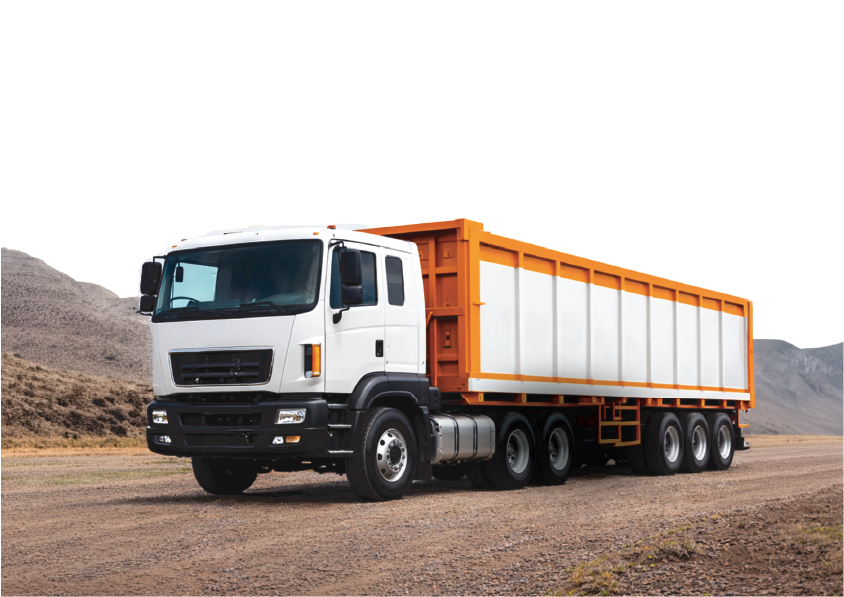
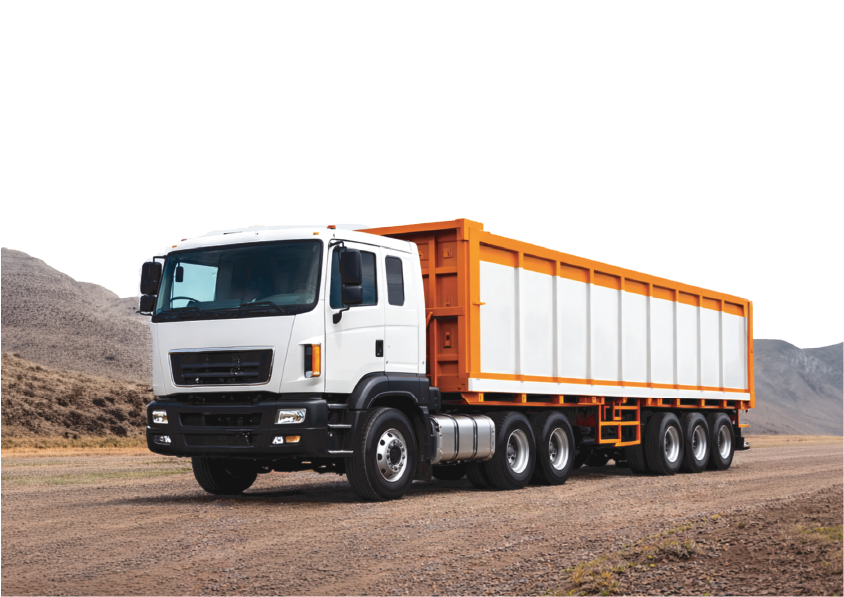
feat: re-import updated Asset 21 and restore card border frame

Changed region(s): [[0.5237, 0.603, 0.8009, 0.8442], [0.7701, 0.7538, 0.8009, 0.7839]]

diff --git a/src/pages/HomePage.tsx b/src/pages/HomePage.tsx
@@ -145,12 +145,14 @@ export const HomePage: React.FC = () => {
               transition={{ duration: 0.8, ease: [0.16, 1, 0.3, 1], delay: 0.15 }}
               className="lg:col-span-5 flex items-center justify-center"
             >
-              <div className="relative w-full flex items-center justify-center">
-                <img
-                  src={COMPANY_INFO.heroImage}
-                  alt="Sameer Commercial Trailer — Engineered Heavy Transport"
-                  className="w-full h-auto max-h-[400px] sm:max-h-[460px] object-contain drop-shadow-[0_15px_30px_rgba(0,0,0,0.15)] hover:scale-[1.03] transition-transform duration-500"
-                />
+              <div className="relative w-full bg-white rounded-3xl p-3 sm:p-3.5 shadow-2xl border border-[#EFE8DF] overflow-hidden group">
+                <div className="w-full aspect-[4/3] rounded-2xl overflow-hidden bg-[#F5EFE8] border border-[#EFE8DF]/80 flex items-center justify-center p-2">
+                  <img
+                    src={COMPANY_INFO.heroImage}
+                    alt="Sameer Commercial Trailer — Engineered Heavy Transport"
+                    className="w-full h-full object-contain group-hover:scale-105 transition-transform duration-700 drop-shadow-md"
+                  />
+                </div>
               </div>
             </motion.div>
 
